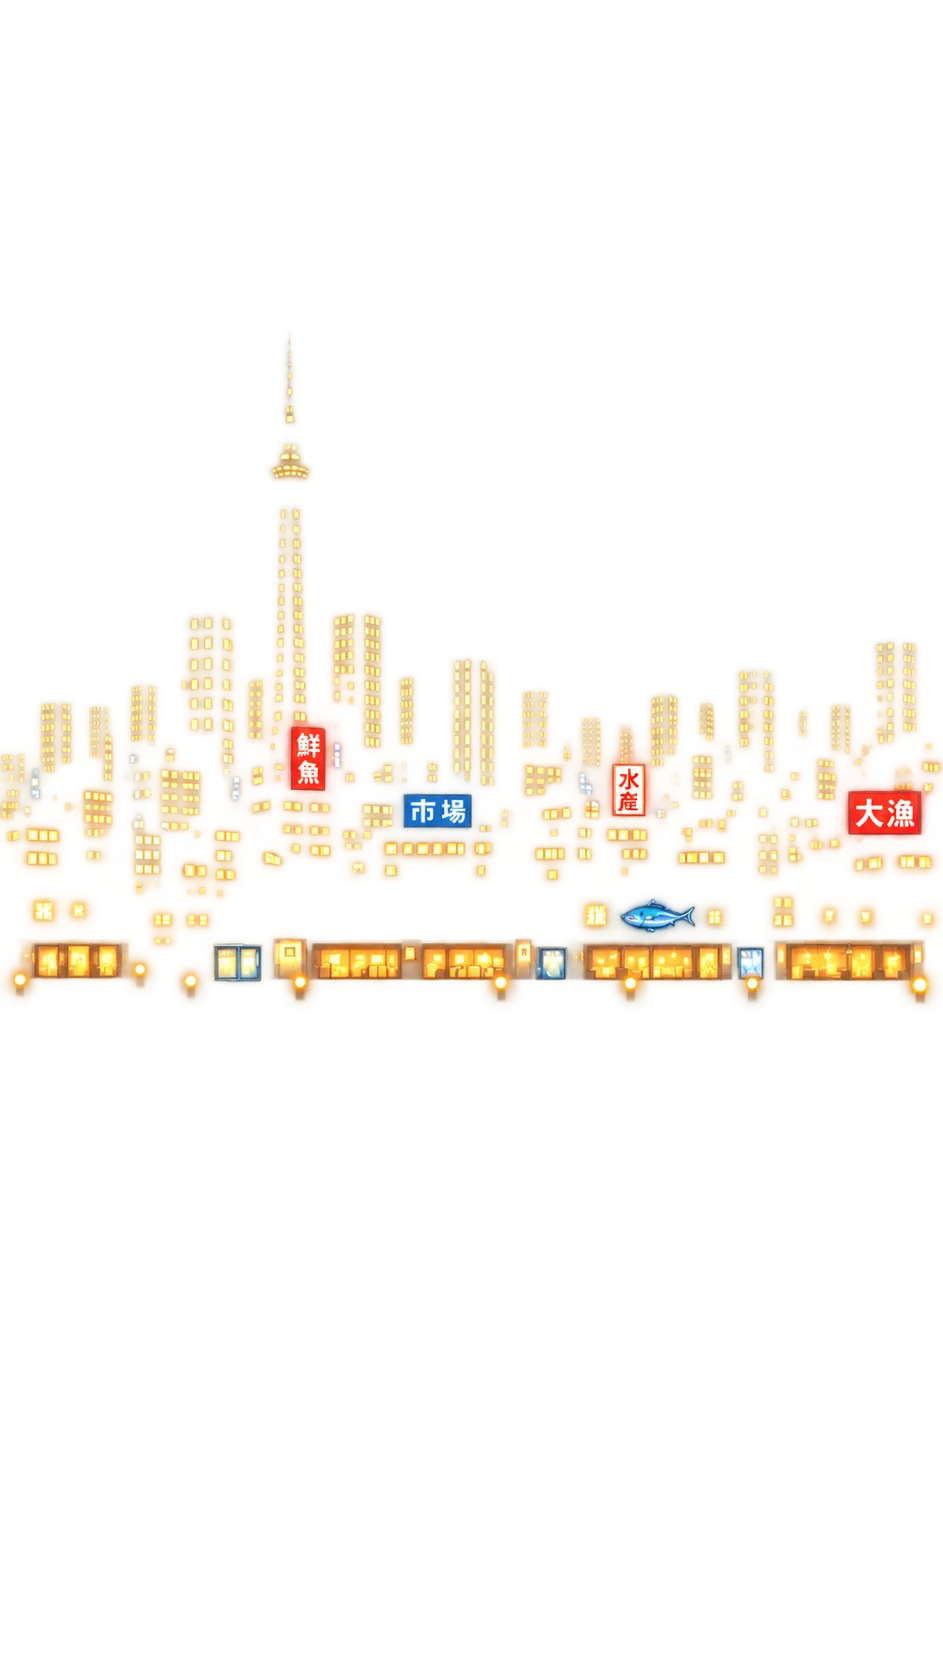
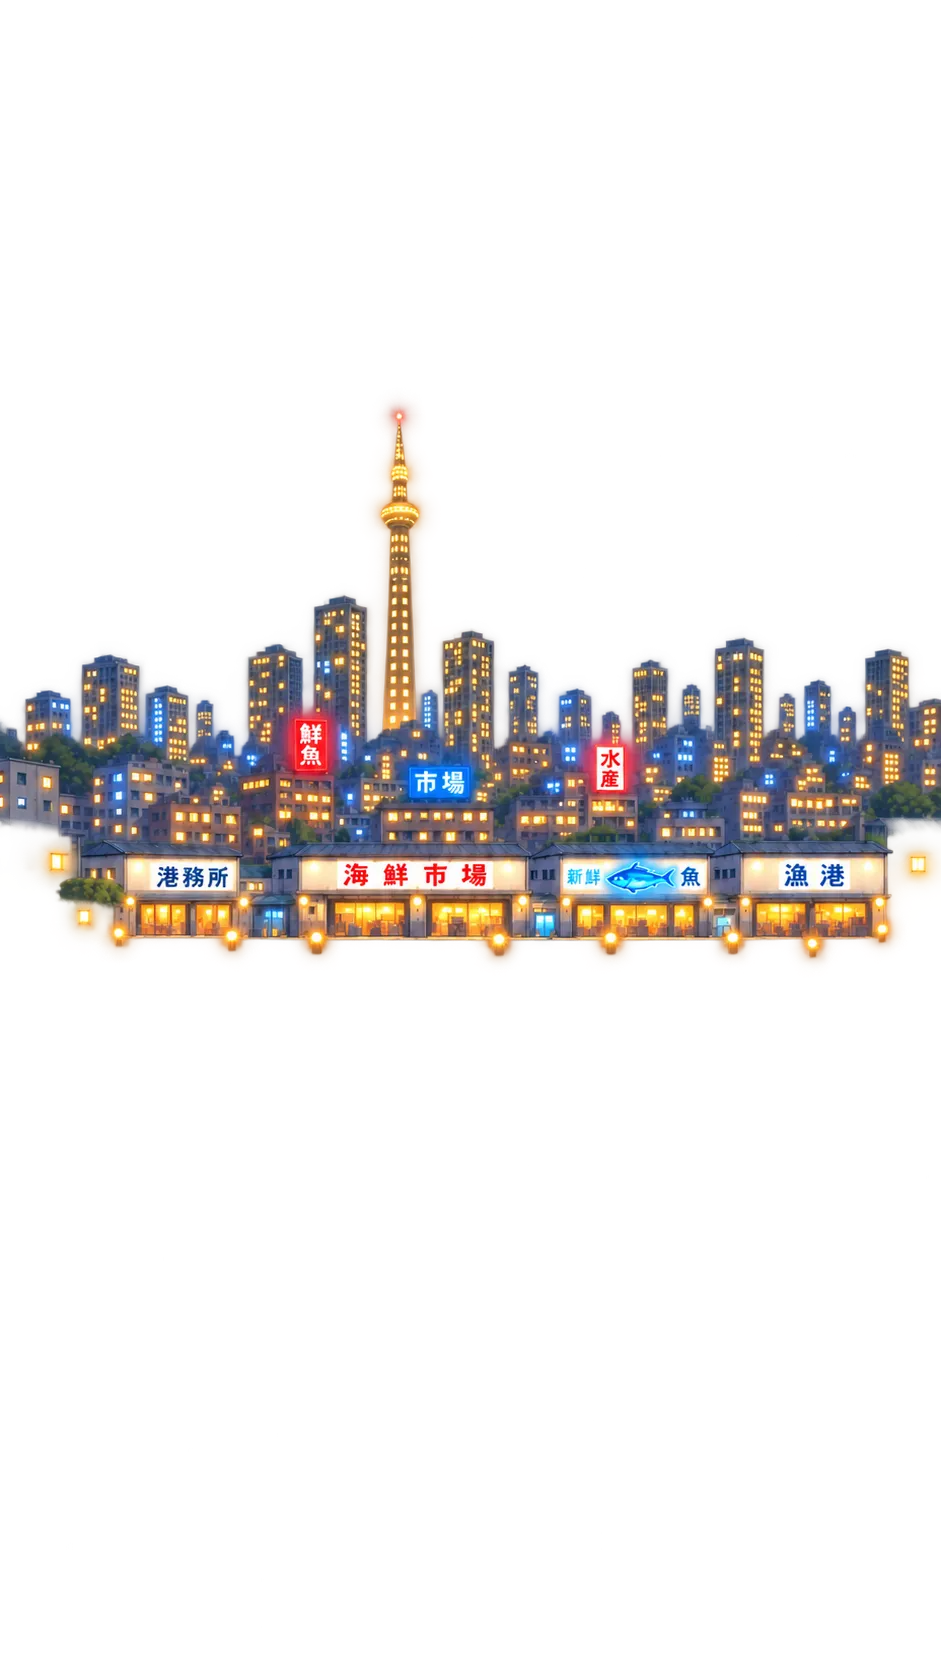
fix: update background images

Changed region(s): [[0.0, 0.2182, 1.0, 0.6235]]

diff --git a/src/components/HarbourScene/BackgroundLayer.tsx b/src/components/HarbourScene/BackgroundLayer.tsx
@@ -1,9 +1,7 @@
 import type { Texture } from "pixi.js";
 
-import { computeBackgroundFit, textureToScreen } from "./backgroundFit";
+import { computeBackgroundFit } from "./backgroundFit";
 import type { HarbourView } from "./layers";
-import TowerBeacon from "./TowerBeacon";
-import { TOWER_LANDMARK_DESKTOP, TOWER_LANDMARK_MOBILE } from "./towerLandmarks";
 import { windowFlicker } from "./windowFlicker";
 
 interface BackgroundLayerProps {
@@ -46,7 +44,6 @@ function BackgroundLayer({
 	const bg = computeBackgroundFit(view, desktop, mobile);
 	const landscape = view.width >= view.height;
 	const lit = landscape ? litDesktop : litMobile;
-	const towerLandmark = landscape ? TOWER_LANDMARK_DESKTOP : TOWER_LANDMARK_MOBILE;
 	const alpha = Math.min(1, windowGlow * windowFlicker(seconds));
 
 	return (
@@ -54,15 +51,6 @@ function BackgroundLayer({
 			<pixiSprite texture={bg.texture} anchor={0.5} x={bg.x} y={bg.y} scale={bg.scale} tint={tint} />
 			{lit && windowGlow > 0.01 && (
 				<pixiSprite texture={lit} anchor={0.5} x={bg.x} y={bg.y} scale={bg.scale} alpha={alpha} />
-			)}
-			{towerLandmark && (
-				<TowerBeacon
-					landmark={towerLandmark}
-					toScreen={point => textureToScreen(bg, point)}
-					scale={bg.scale}
-					alpha={alpha}
-					seconds={seconds}
-				/>
 			)}
 		</>
 	);

diff --git a/src/components/HarbourScene/backgroundFit.ts b/src/components/HarbourScene/backgroundFit.ts
@@ -19,8 +19,9 @@ export interface BackgroundFit<T extends Size> {
  * wide desktop also supported):
  *
  * - **landscape** (`w >= h`): the wide `bg-desktop` strip, fit to viewport
- *   width. Its transparent top/bottom bleed off-screen; nothing load-bearing
- *   sits there.
+ *   width and anchored to the bottom of the screen — the foreground dock is
+ *   painted at the bottom of the art and must always sit flush with the
+ *   bottom of the viewport, whatever the art's transparent top bleed does.
  * - **portrait** (`w < h`): the 9:16 `bg-mobile` composition, scaled to *cover*
  *   the viewport. On a phone taller than 9:16 the outer few percent crop — the
  *   skyline and market stay centred, only generic edge detail is lost.
@@ -31,8 +32,9 @@ export function computeBackgroundFit<T extends Size>(screen: Size, desktop: T, m
 	const scale = landscape
 		? screen.width / texture.width
 		: Math.max(screen.width / texture.width, screen.height / texture.height);
+	const y = landscape ? screen.height - (texture.height * scale) / 2 : screen.height / 2;
 
-	return { texture, scale, x: screen.width / 2, y: screen.height / 2 };
+	return { texture, scale, x: screen.width / 2, y };
 }
 
 /**

diff --git a/src/components/HarbourScene/backgroundFit.test.ts b/src/components/HarbourScene/backgroundFit.test.ts
@@ -8,10 +8,18 @@ const MOBILE = { width: 942, height: 1670 };
 describe("computeBackgroundFit", () => {
 	it("draws the wide desktop strip fit to viewport width in landscape", () => {
 		const fit = computeBackgroundFit({ width: 1920, height: 1080 }, DESKTOP, MOBILE);
+		const scale = 1920 / 2149;
 
 		expect(fit.texture).toBe(DESKTOP);
-		expect(fit.scale).toBeCloseTo(1920 / 2149);
-		expect(fit).toMatchObject({ x: 960, y: 540 });
+		expect(fit.scale).toBeCloseTo(scale);
+		expect(fit.x).toBeCloseTo(960);
+		expect(fit.y).toBeCloseTo(1080 - (DESKTOP.height * scale) / 2);
+	});
+
+	it("anchors the landscape strip's bottom edge flush with the screen bottom", () => {
+		const fit = computeBackgroundFit({ width: 1920, height: 1080 }, DESKTOP, MOBILE);
+
+		expect(fit.y + (DESKTOP.height * fit.scale) / 2).toBeCloseTo(1080);
 	});
 
 	it("draws the portrait composition scaled to cover in portrait", () => {
